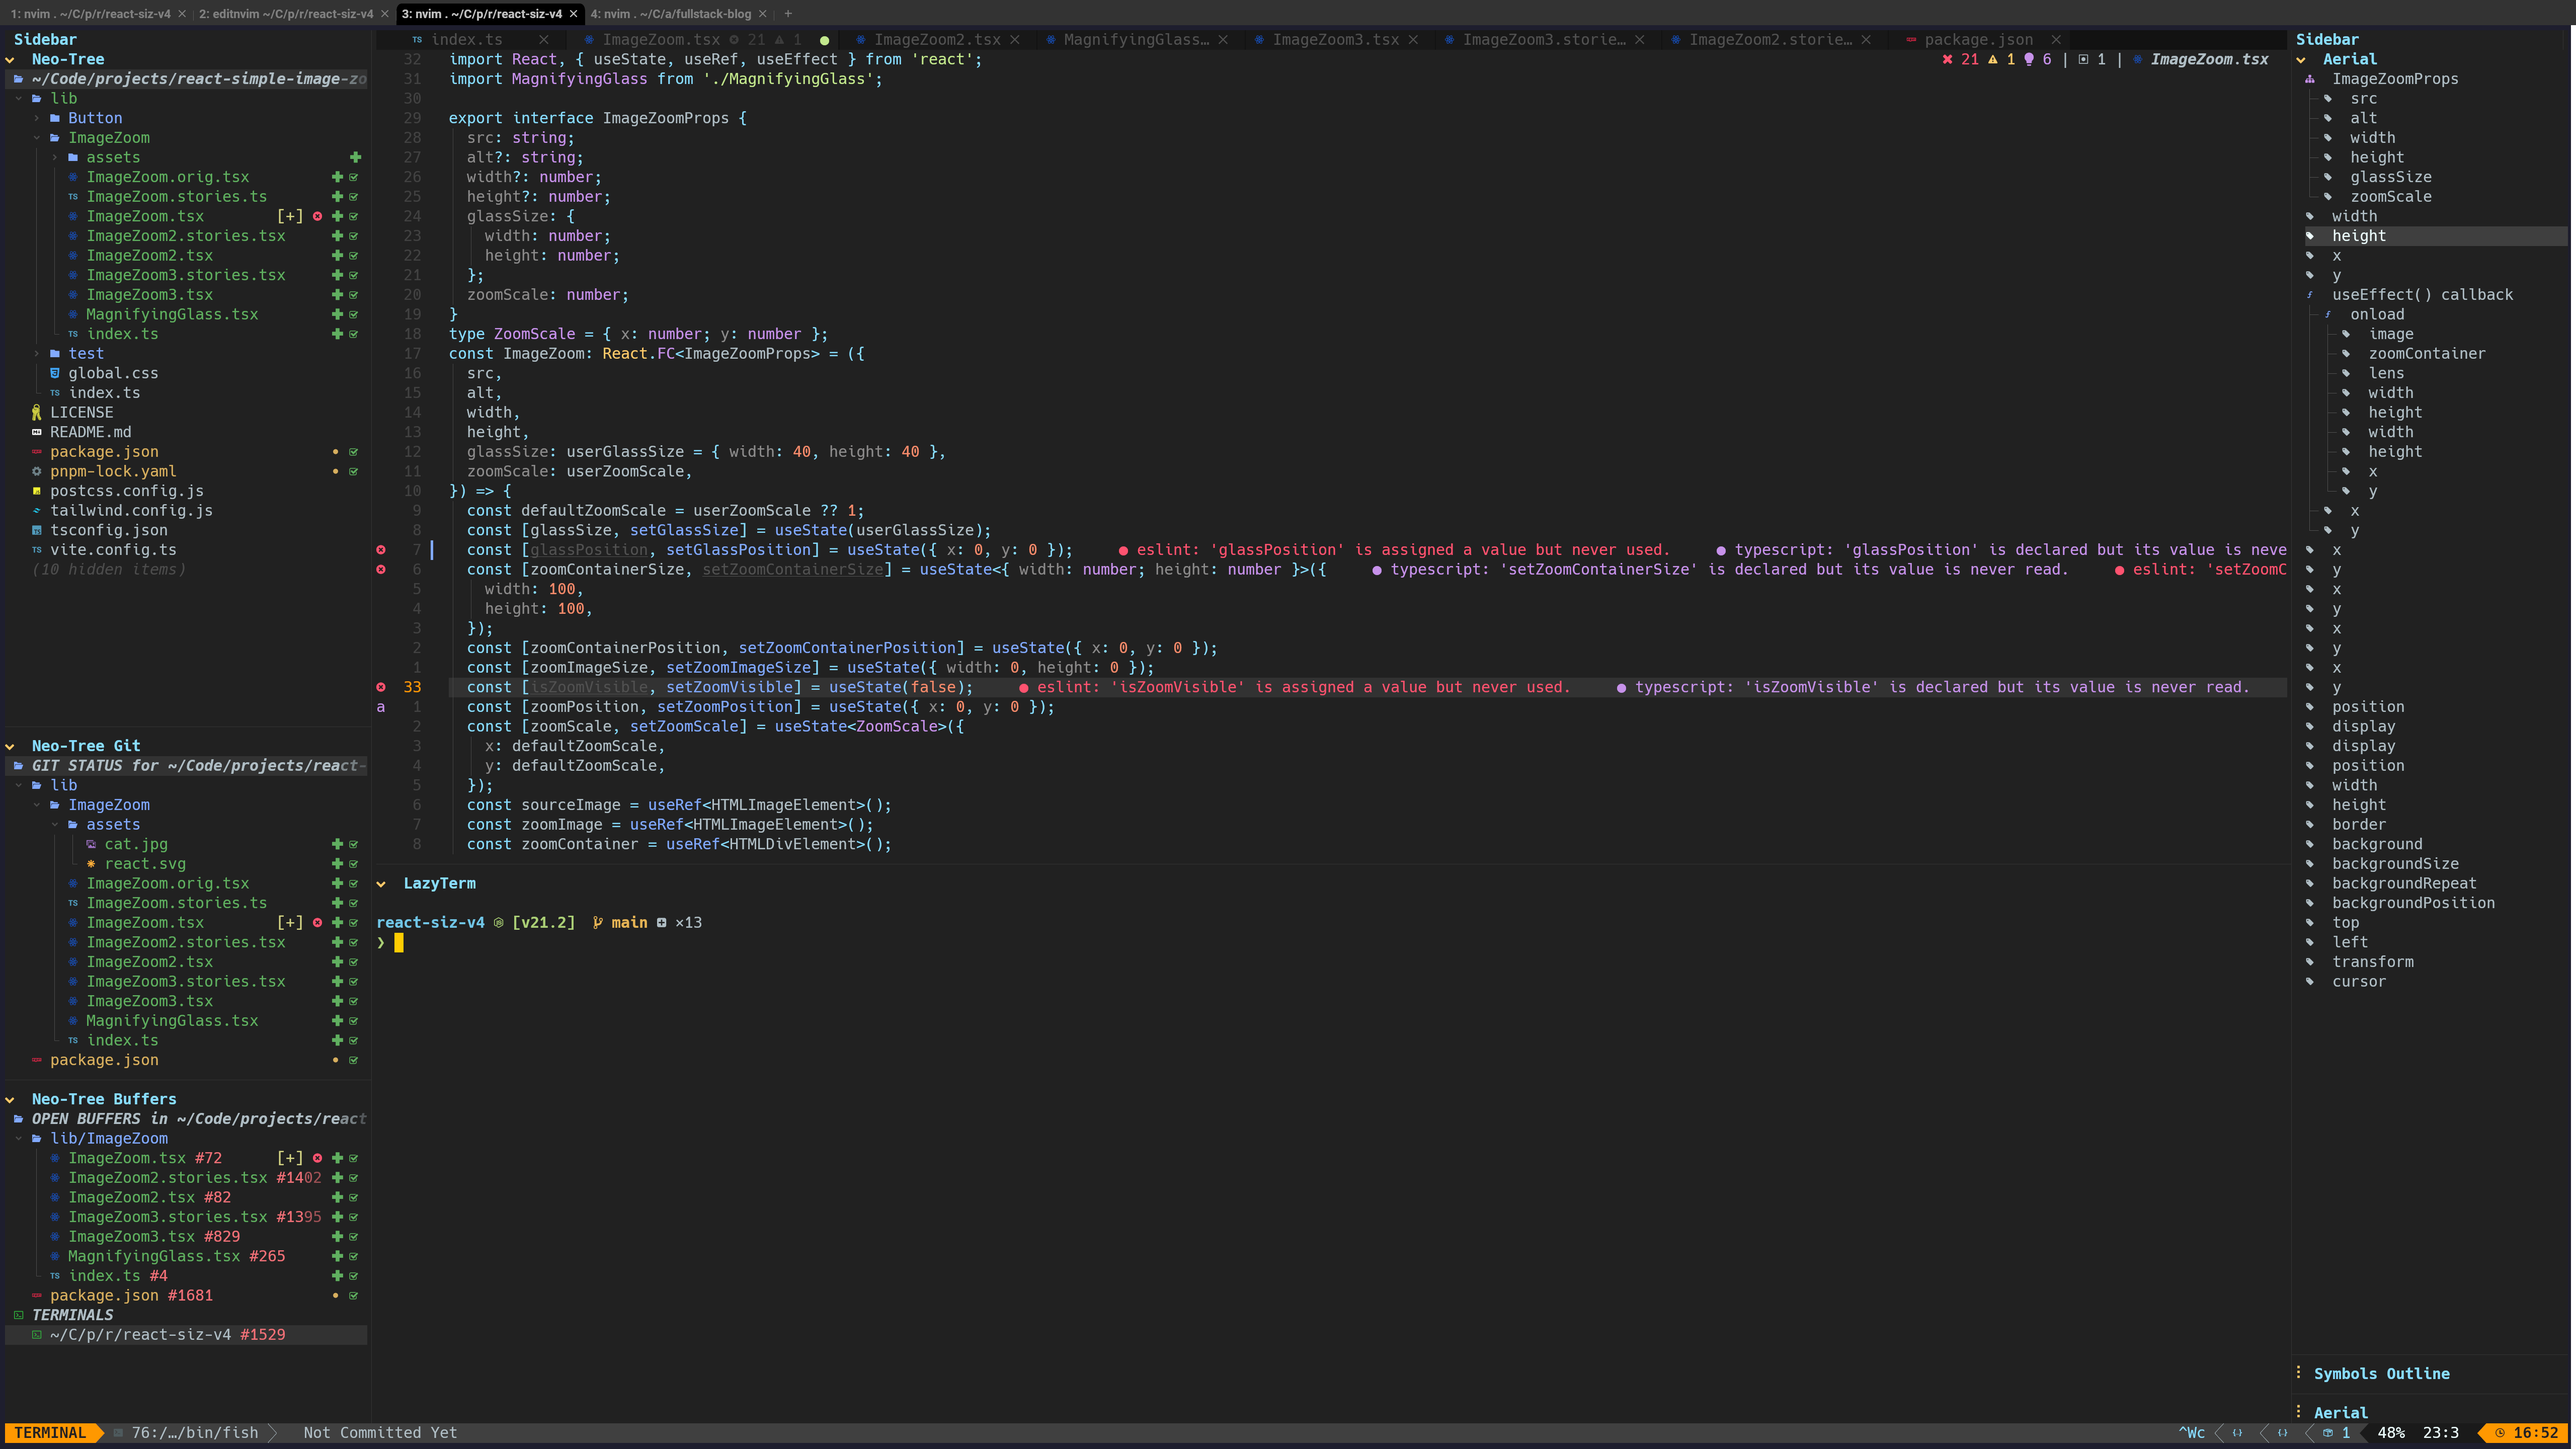
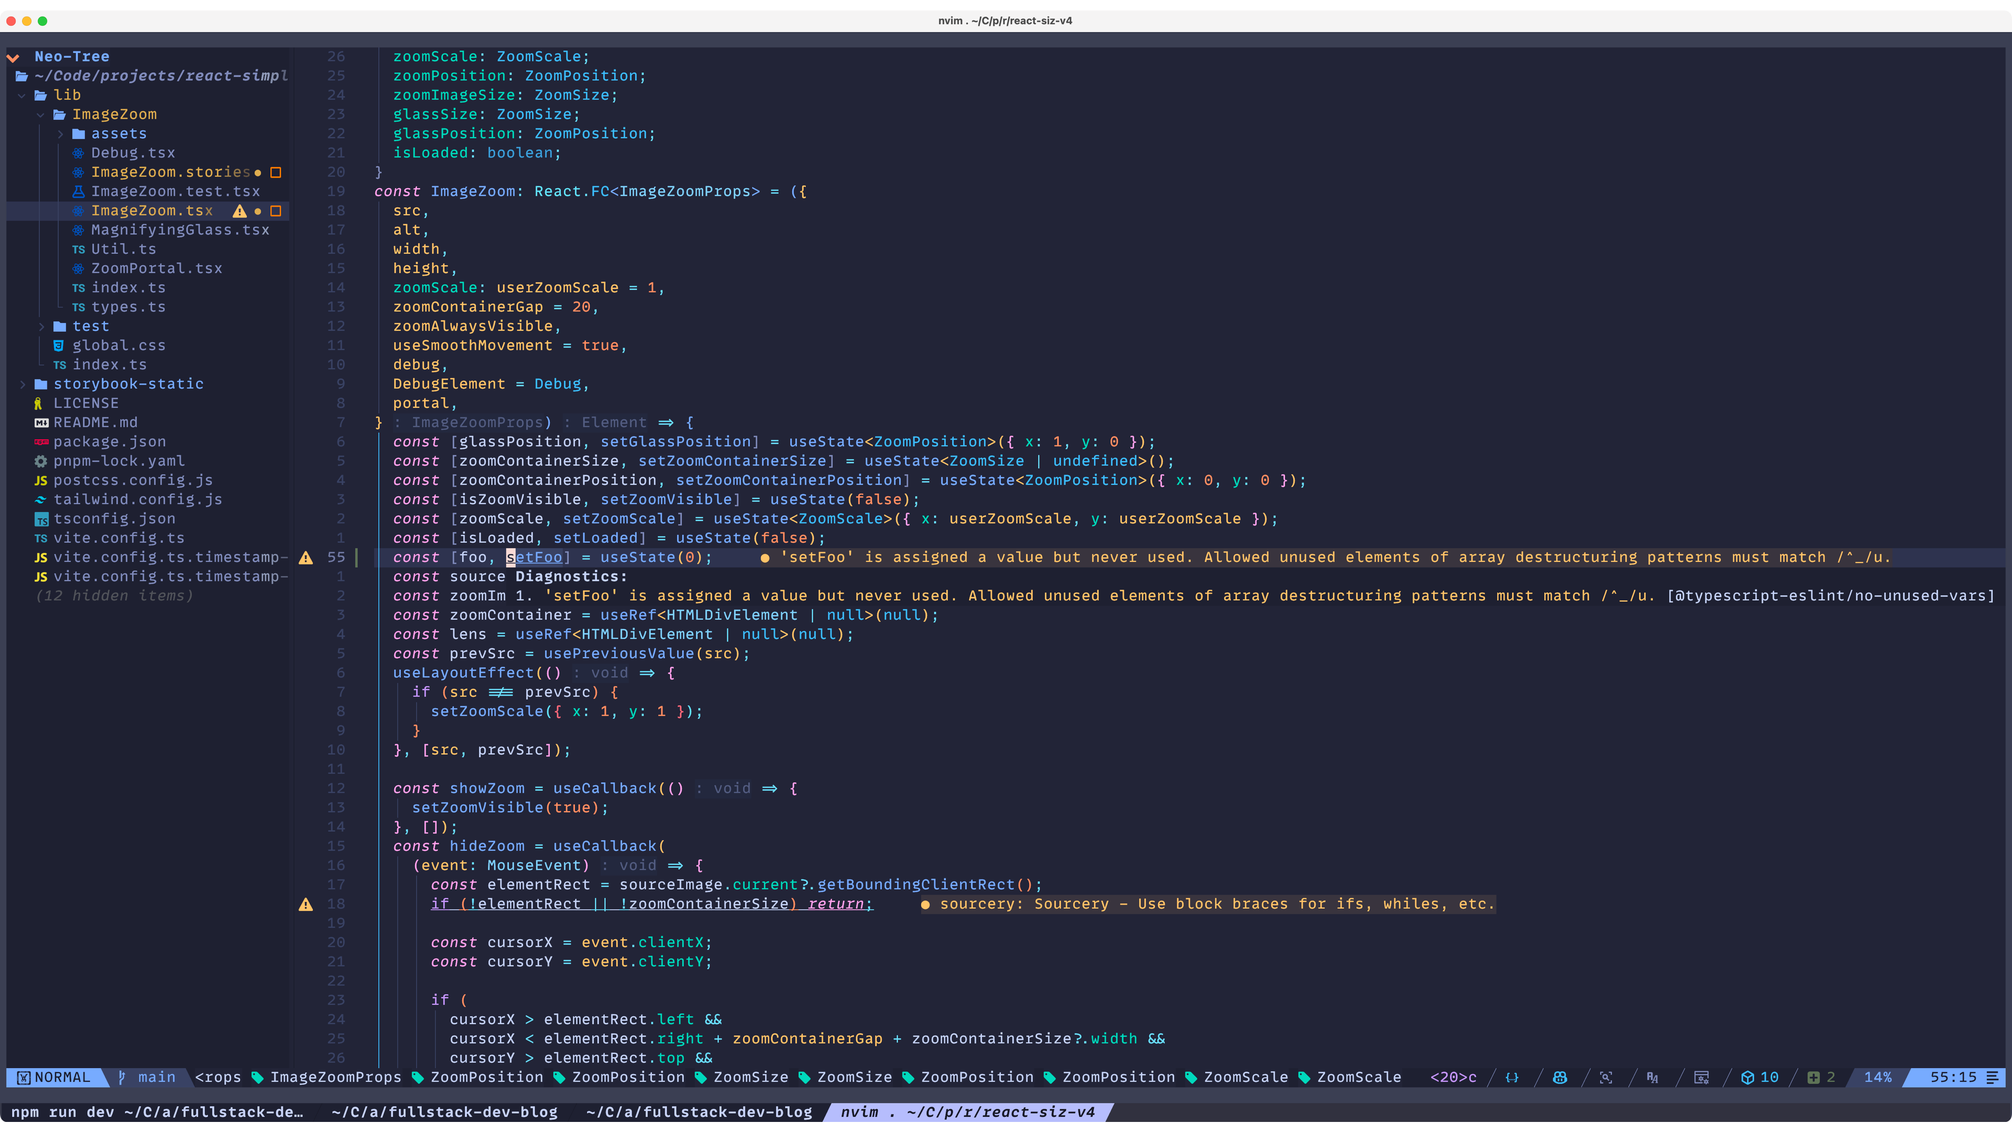
(feat) replace screenshots with high-qaulity versions, fix type errors

Changed region(s): [[0.0, 0.0, 1.0, 1.0], [0.3438, 0.6844, 0.375, 0.7156]]

diff --git a/src/services/turso.ts b/src/services/turso.ts
@@ -1,9 +1,8 @@
-import { createClient } from "@libsql/client";
+import * as models from "$prisma/zod";
 import prisma from "$services/prisma";
+import { createClient } from "@libsql/client";
 import type { PrismaClientKnownRequestError } from "@prisma/client/runtime/library";
-import { ErrorModel } from "$prisma/zod/error";
 
-console.log({ env: import.meta.env });
 export const client = createClient({
   url: import.meta.env.TURSO_DB_URL,
   authToken: import.meta.env.TURSO_DB_AUTH_TOKEN,
@@ -33,6 +32,7 @@ export const getViewsBySlug = async (slug: string, shouldIncrement = false) => {
         },
       },
       select: {
+        id: true,
         postSlug: true,
         value: true,
         metricType: true,
@@ -50,6 +50,7 @@ export const getViewsBySlug = async (slug: string, shouldIncrement = false) => {
         metricType: "views",
       },
       select: {
+        id: true,
         postSlug: true,
         metricType: true,
         value: true,
@@ -57,7 +58,7 @@ export const getViewsBySlug = async (slug: string, shouldIncrement = false) => {
     });
 
   try {
-    let metric: MetricModel | null;
+    let metric: Zod.infer<typeof models.MetricModel> | null;
     if (shouldIncrement) {
       metric = await upsert();
     } else {
@@ -66,7 +67,7 @@ export const getViewsBySlug = async (slug: string, shouldIncrement = false) => {
         metric = await upsert();
       }
     }
-    return metric.numViews;
+    return metric;
   } catch (e) {
     if ((e as PrismaClientKnownRequestError).code === "P2002") {
       // https://www.prisma.io/docs/concepts/components/prisma-client/handling-errors
@@ -90,14 +91,17 @@ export const getViews = async () => {
   }
   try {
     const results = await prisma.metric.findMany({
+      where: {
+        metricType: "views",
+      },
       select: {
         postSlug: true,
-        numViews: true,
+        value: true,
       },
     });
     const views: { [key: string]: bigint } = {};
     for (const result of results) {
-      views[result.postSlug] = result.numViews;
+      views[result.postSlug] = result.value;
     }
     return views;
   } catch (e) {
@@ -106,7 +110,7 @@ export const getViews = async () => {
   }
 };
 
-export const saveError = async (evt: Zod.infer<typeof ErrorModel>) => {
+export const saveError = async (evt: Zod.infer<typeof models.ErrorModel>) => {
   if (!evt) {
     return;
   }
@@ -115,7 +119,7 @@ export const saveError = async (evt: Zod.infer<typeof ErrorModel>) => {
       message: evt.message,
       stackTrace: evt.stackTrace,
     };
-    const validatedError = ErrorModel.parse(errorObj);
+    const validatedError = models.ErrorModel.parse(errorObj);
     const savedError = prisma.error.create({ data: validatedError });
     console.log("Saved error", savedError);
     return savedError;
@@ -126,8 +130,7 @@ export const saveError = async (evt: Zod.infer<typeof ErrorModel>) => {
 
 export const getErrors = async () => {
   try {
-    const errors = await prisma.error.findMany();
-    return errors;
+    return await prisma.error.findMany();
   } catch (e) {
     console.error(e);
     return [];

diff --git a/astro.config.ts b/astro.config.ts
@@ -1,12 +1,17 @@
+import mdx from "@astrojs/mdx";
 import path, { dirname } from "node:path";
 import { fileURLToPath } from "node:url";
-import mdx from "@astrojs/mdx";
 // import solid from "@astrojs/solid-js";
 import node from "@astrojs/node";
 import react from "@astrojs/react";
 import sitemap from "@astrojs/sitemap";
 import svelte from "@astrojs/svelte";
 import tailwind from "@astrojs/tailwind";
+import {
+  transformerNotationDiff,
+  transformerNotationHighlight,
+  transformerNotationWordHighlight,
+} from "@shikijs/transformers";
 import { transformerTwoslash } from "@shikijs/twoslash";
 import icon from "astro-icon";
 import robotsTxt from "astro-robots-txt";
@@ -18,11 +23,6 @@ import svgr from "vite-plugin-svgr";
 import customImageResizer from "./bin/processImages.mjs";
 import { remarkReadingTime } from "./src/plugins/remark-reading-time";
 import { remarkSummary } from "./src/plugins/remark-summary";
-import {
-  transformerNotationDiff,
-  transformerNotationHighlight,
-  transformerNotationWordHighlight,
-} from "@shikijs/transformers";
 // import {
 // transformerNotationDiff,
 // transformerNotationErrorLevel,
@@ -104,6 +104,8 @@ export default defineConfig({
             "tsx",
             "typescript",
             "vim",
+            "yaml",
+            "toml",
           ],
         },
       ],

diff --git a/rpc-server/router.ts b/rpc-server/router.ts
@@ -2,7 +2,6 @@ import { initTRPC } from "@trpc/server";
 import { z } from "zod";
 import type { Context } from "./context";
 import { IncrementMetricInput } from "./types";
-import type { MetricModel } from "$prisma/zod/metric";
 
 export const t = initTRPC.context<Context>().create({
   allowOutsideOfServer: true,
@@ -49,8 +48,7 @@ export const appRouter = t.router({
             metricType: true,
           },
         });
-      const metric = await upsert();
-      return metric;
+      return await upsert();
     }),
   getCommits: publicProcedure.query((resolver) => {
     const { githubService } = resolver.ctx;

diff --git a/src/content/blog/creating-a-sharedroot-group-in-osx.md b/src/content/blog/creating-a-sharedroot-group-in-osx.md
@@ -5,6 +5,7 @@ pubDate: Jan 19 2024
 cover: ./assets/screenshots/nvim-dscl.png
 coverAlt: Neovim screenshot showing fish dscl function
 tags: ["osx"]
+draft: true
 ---
 
 Have you ever wanted to give yourself root permissions for certain folders in
